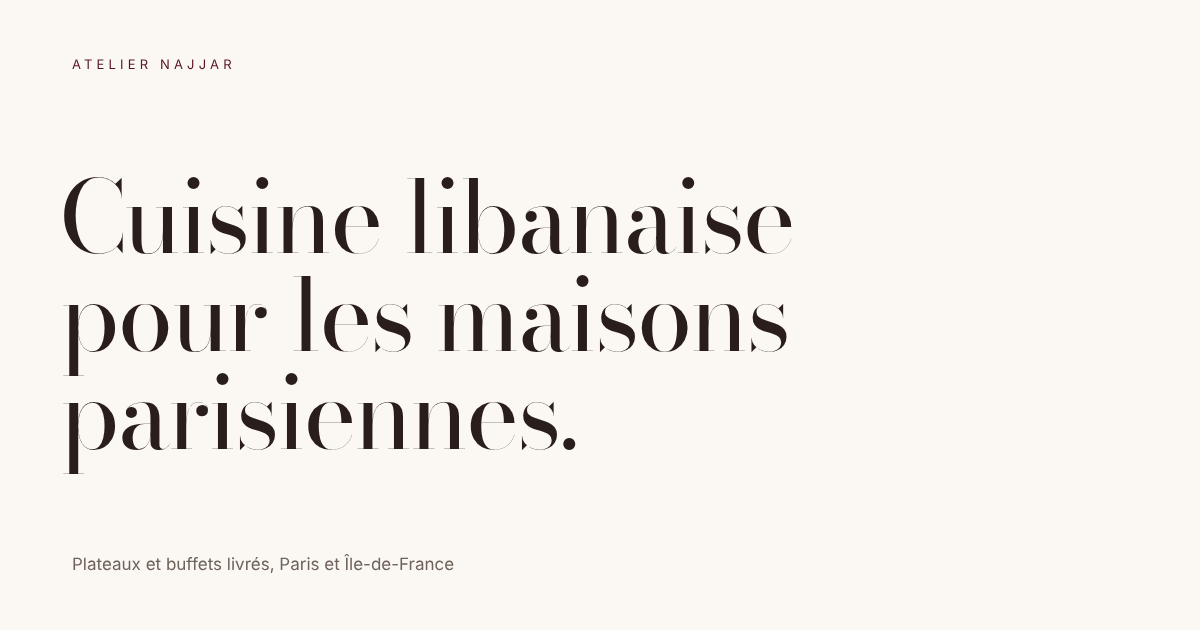
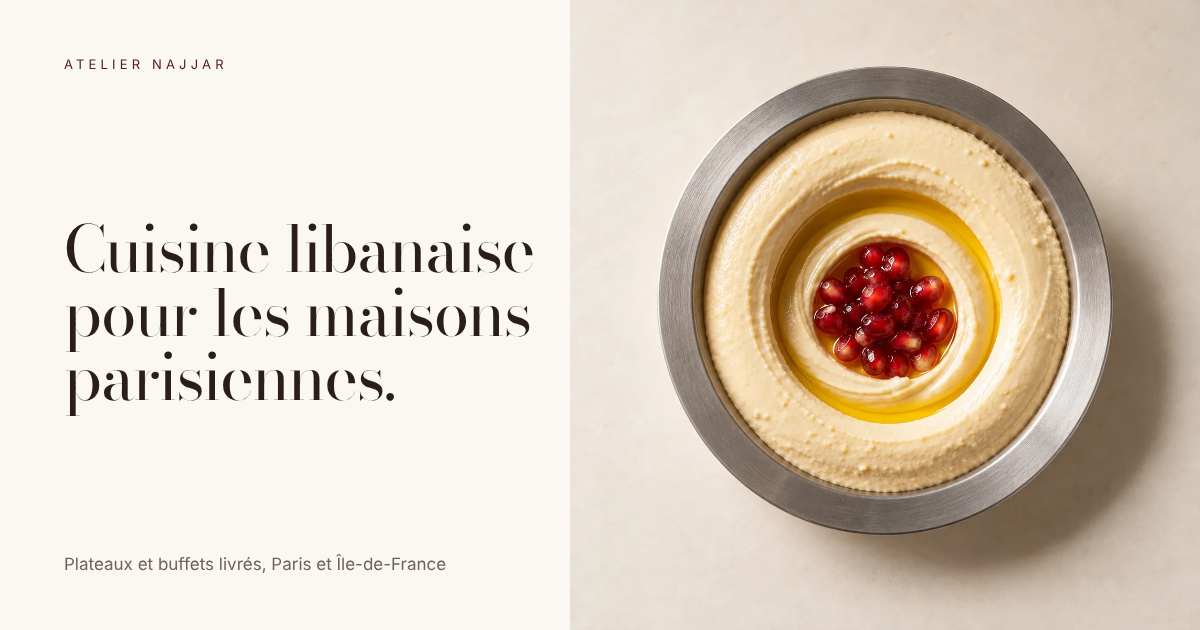
Intègre les nouvelles photos de plats
- Bandeau de trois photos sous le hero (hoummous, taboulé, kebbé)
- La carte présentée avec une photo par plat (11 plats)
- Nouvelle image de partage avec la photo du hoummous
- Suppression des anciennes photos JPEG, désormais inutilisées

Claude-Session: https://claude.ai/code/session_019j86bniTc8T7tZrnjTg8MX

diff --git a/index.html b/index.html
@@ -102,11 +102,16 @@ nav a:hover { color: var(--bordeaux); }
 .maison p.big { font: 400 clamp(26px, 2.8vw, 40px)/1.32 var(--serif); margin-bottom: 1.2em; max-width: 24em; }
 .maison .cols { display: grid; grid-template-columns: 1fr 1fr; gap: 48px; max-width: 880px; color: var(--gris); font-size: 16px; }
 
-.carte-cols { display: grid; grid-template-columns: repeat(3, 1fr); gap: 48px; }
-.carte-cols h3 { font: 400 13px/1 var(--sans); color: var(--gris); padding-bottom: 20px; border-bottom: 1px solid var(--filet); margin-bottom: 8px; }
-.carte-cols li { padding: 18px 0; border-bottom: 1px solid var(--filet); }
-.carte-cols h4 { font-size: 23px; line-height: 1.2; margin-bottom: 6px; }
-.carte-cols p { font-size: 14px; color: var(--gris); margin: 0; }
+.bandeau { display: grid; grid-template-columns: repeat(3, 1fr); gap: 0; }
+.bandeau img { width: 100%; height: auto; aspect-ratio: 1; object-fit: cover; display: block; }
+
+.cat + .cat { margin-top: clamp(64px, 8vw, 112px); }
+.cat > h3 { font: 400 13px/1 var(--sans); color: var(--gris); padding-bottom: 20px; border-bottom: 1px solid var(--filet); margin-bottom: 32px; }
+.plats { display: grid; grid-template-columns: repeat(3, 1fr); gap: 48px 32px; }
+.plat { margin: 0; }
+.plat img { width: 100%; height: auto; aspect-ratio: 1; object-fit: cover; display: block; margin-bottom: 18px; }
+.plat h4 { font-size: 24px; line-height: 1.2; margin-bottom: 6px; }
+.plat p { font-size: 14px; color: var(--gris); margin: 0; }
 .carte-note { margin-top: 40px; font-size: 14px; color: var(--gris); }
 
 .formules-cols { display: grid; grid-template-columns: repeat(3, 1fr); border-top: 1px solid var(--filet); }
@@ -165,7 +170,8 @@ footer a:hover { color: var(--bordeaux); }
   .label { grid-column: 1 / -1; margin-bottom: 28px; padding-top: 0; }
   .content { grid-column: 1 / -1; }
   .maison .cols { grid-template-columns: 1fr; gap: 0; }
-  .carte-cols { grid-template-columns: 1fr; gap: 40px; }
+  .plats { grid-template-columns: 1fr 1fr; gap: 36px 16px; }
+  .plat h4 { font-size: 20px; }
   .formules-cols { grid-template-columns: 1fr; }
   .formule, .formule:first-child { border-left: 0; padding: 36px 0; border-bottom: 1px solid var(--filet); }
   .etapes { grid-template-columns: 1fr; }
@@ -210,6 +216,12 @@ footer a:hover { color: var(--bordeaux); }
     </div>
   </section>
 
+  <div class="bandeau" aria-hidden="true">
+    <img src="photos/hoummous-700.webp" srcset="photos/hoummous-700.webp 700w, photos/hoummous-1200.webp 1200w" sizes="(max-width: 900px) 34vw, 34vw" width="700" height="700" loading="lazy" decoding="async" alt="">
+    <img src="photos/taboule-700.webp" srcset="photos/taboule-700.webp 700w, photos/taboule-1200.webp 1200w" sizes="(max-width: 900px) 34vw, 34vw" width="700" height="700" loading="lazy" decoding="async" alt="">
+    <img src="photos/kebbe-700.webp" srcset="photos/kebbe-700.webp 700w, photos/kebbe-1200.webp 1200w" sizes="(max-width: 900px) 34vw, 34vw" width="700" height="700" loading="lazy" decoding="async" alt="">
+  </div>
+
   <section class="section maison" id="maison" aria-label="La Maison">
     <div class="wrap grid">
       <p class="label">La Maison</p>
@@ -227,35 +239,33 @@ footer a:hover { color: var(--bordeaux); }
     <div class="wrap grid">
       <p class="label">La carte</p>
       <div class="content">
-        <div class="carte-cols">
-          <div>
+        <div class="cat">
             <h3>Mezzés</h3>
-            <ul>
-              <li><h4>Hoummous à la grenade</h4><p>Tahiné, citron, grains de grenade</p></li>
-              <li><h4>Labné aux agrumes</h4><p>Zestes d'agrumes, pistache, menthe</p></li>
-              <li><h4>Caviar d'aubergine fumé</h4><p>Aubergine grillée au feu, tahiné</p></li>
-              <li><h4>Crème de feta acidulée</h4><p>Citron, herbes fraîches</p></li>
-            </ul>
+            <div class="plats">
+              <figure class="plat"><img src="photos/hoummous-700.webp" srcset="photos/hoummous-700.webp 700w, photos/hoummous-1200.webp 1200w" sizes="(max-width: 900px) 46vw, 24vw" width="700" height="700" loading="lazy" decoding="async" alt="Hoummous à la grenade et huile d'olive"><h4>Hoummous à la grenade</h4><p>Tahiné, citron, grains de grenade</p></figure>
+              <figure class="plat"><img src="photos/labne-700.webp" srcset="photos/labne-700.webp 700w, photos/labne-1200.webp 1200w" sizes="(max-width: 900px) 46vw, 24vw" width="700" height="700" loading="lazy" decoding="async" alt="Labné aux zestes d'agrumes, pistaches et menthe"><h4>Labné aux agrumes</h4><p>Zestes d'agrumes, pistache, menthe</p></figure>
+              <figure class="plat"><img src="photos/caviar-aubergine-700.webp" srcset="photos/caviar-aubergine-700.webp 700w, photos/caviar-aubergine-1200.webp 1200w" sizes="(max-width: 900px) 46vw, 24vw" width="700" height="700" loading="lazy" decoding="async" alt="Caviar d'aubergine fumé au sumac et huile d'olive"><h4>Caviar d'aubergine fumé</h4><p>Aubergine grillée au feu, sumac</p></figure>
+            </div>
           </div>
-          <div>
+          <div class="cat">
             <h3>Salades</h3>
-            <ul>
-              <li><h4>Taboulé citronné</h4><p>Persil plat, boulgour fin, tomate</p></li>
-              <li><h4>Salade levantine</h4><p>Agrumes, concombre, grenade</p></li>
-            </ul>
+            <div class="plats">
+              <figure class="plat"><img src="photos/taboule-700.webp" srcset="photos/taboule-700.webp 700w, photos/taboule-1200.webp 1200w" sizes="(max-width: 900px) 46vw, 24vw" width="700" height="700" loading="lazy" decoding="async" alt="Taboulé au persil, tomate et grenade"><h4>Taboulé citronné</h4><p>Persil plat, boulgour fin, tomate, grenade</p></figure>
+              <figure class="plat"><img src="photos/salade-levantine-700.webp" srcset="photos/salade-levantine-700.webp 700w, photos/salade-levantine-1200.webp 1200w" sizes="(max-width: 900px) 46vw, 24vw" width="700" height="700" loading="lazy" decoding="async" alt="Salade levantine aux agrumes, concombre et grenade"><h4>Salade levantine</h4><p>Agrumes, concombre, grenade, menthe</p></figure>
+            </div>
           </div>
-          <div>
+          <div class="cat">
             <h3>Bouchées</h3>
-            <ul>
-              <li><h4>Falafels</h4><p>Pois chiches, herbes, sauce tahiné</p></li>
-              <li><h4>Feuilles de vigne</h4><p>Riz, herbes, citron</p></li>
-              <li><h4>Kebbé</h4><p>Boulgour, viande, pignons de pin</p></li>
-              <li><h4>Fatayer aux épinards</h4><p>Oignon, sumac, citron</p></li>
-              <li><h4>Samboussek</h4><p>Au fromage ou à la viande</p></li>
-            </ul>
+            <div class="plats">
+              <figure class="plat"><img src="photos/falafels-700.webp" srcset="photos/falafels-700.webp 700w, photos/falafels-1200.webp 1200w" sizes="(max-width: 900px) 46vw, 24vw" width="700" height="700" loading="lazy" decoding="async" alt="Falafels dorés à la menthe"><h4>Falafels</h4><p>Pois chiches, herbes, menthe</p></figure>
+              <figure class="plat"><img src="photos/feuilles-de-vigne-700.webp" srcset="photos/feuilles-de-vigne-700.webp 700w, photos/feuilles-de-vigne-1200.webp 1200w" sizes="(max-width: 900px) 46vw, 24vw" width="700" height="700" loading="lazy" decoding="async" alt="Feuilles de vigne farcies et citron"><h4>Feuilles de vigne</h4><p>Riz, herbes, citron</p></figure>
+              <figure class="plat"><img src="photos/kebbe-700.webp" srcset="photos/kebbe-700.webp 700w, photos/kebbe-1200.webp 1200w" sizes="(max-width: 900px) 46vw, 24vw" width="700" height="700" loading="lazy" decoding="async" alt="Kebbé dorés et persil plat"><h4>Kebbé</h4><p>Boulgour, viande, pignons de pin</p></figure>
+              <figure class="plat"><img src="photos/fatayer-epinards-700.webp" srcset="photos/fatayer-epinards-700.webp 700w, photos/fatayer-epinards-1200.webp 1200w" sizes="(max-width: 900px) 46vw, 24vw" width="700" height="700" loading="lazy" decoding="async" alt="Fatayer aux épinards"><h4>Fatayer aux épinards</h4><p>Oignon, sumac, citron</p></figure>
+              <figure class="plat"><img src="photos/samboussek-fromage-700.webp" srcset="photos/samboussek-fromage-700.webp 700w, photos/samboussek-fromage-1200.webp 1200w" sizes="(max-width: 900px) 46vw, 24vw" width="700" height="700" loading="lazy" decoding="async" alt="Samboussek au fromage"><h4>Samboussek au fromage</h4><p>Pâte dorée, fromage fondant</p></figure>
+              <figure class="plat"><img src="photos/samboussek-viande-700.webp" srcset="photos/samboussek-viande-700.webp 700w, photos/samboussek-viande-1200.webp 1200w" sizes="(max-width: 900px) 46vw, 24vw" width="700" height="700" loading="lazy" decoding="async" alt="Samboussek à la viande et menthe"><h4>Samboussek à la viande</h4><p>Viande épicée, menthe fraîche</p></figure>
+            </div>
           </div>
-        </div>
-        <p class="carte-note">La carte complète, avec les créations de saison, accompagne chaque devis.</p>
+        <p class="carte-note">Également à la carte : crème de feta acidulée, et des créations de saison. La carte complète accompagne chaque devis.</p>
       </div>
     </div>
   </section>
